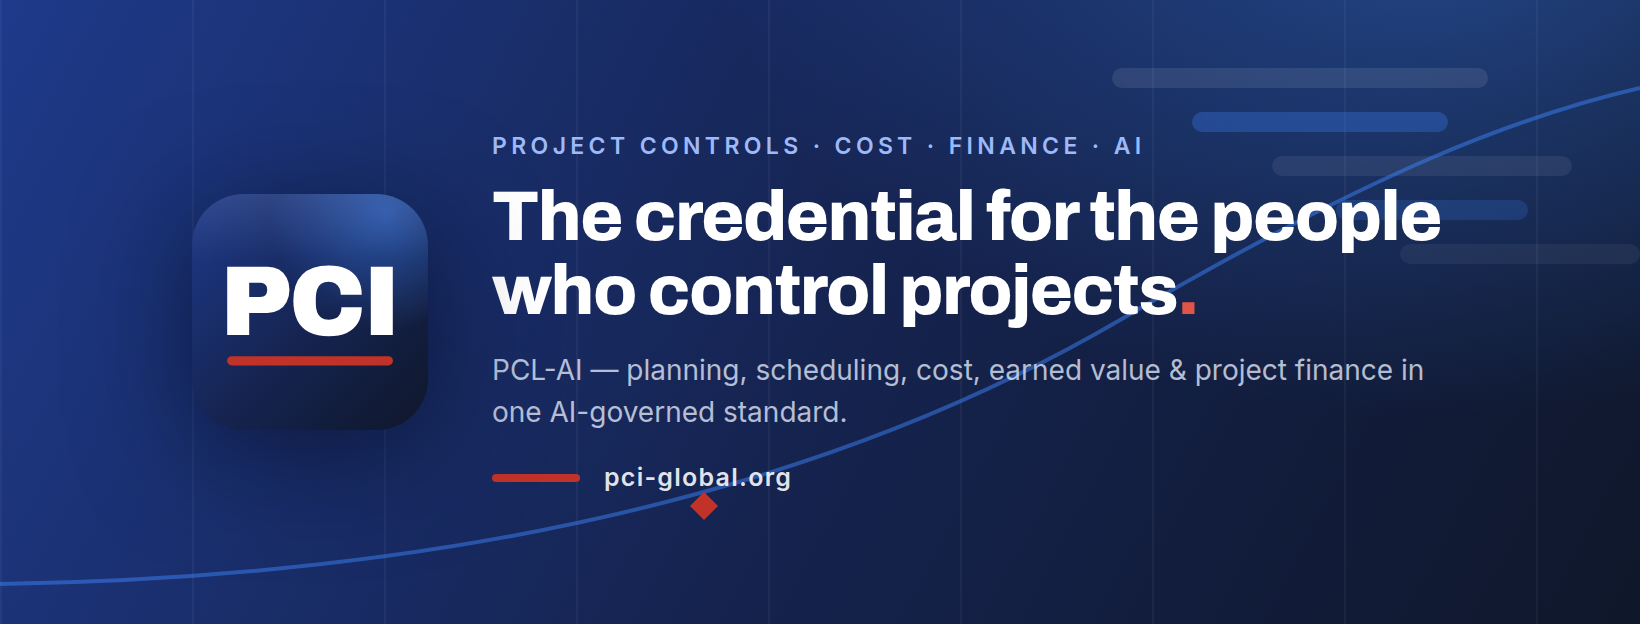
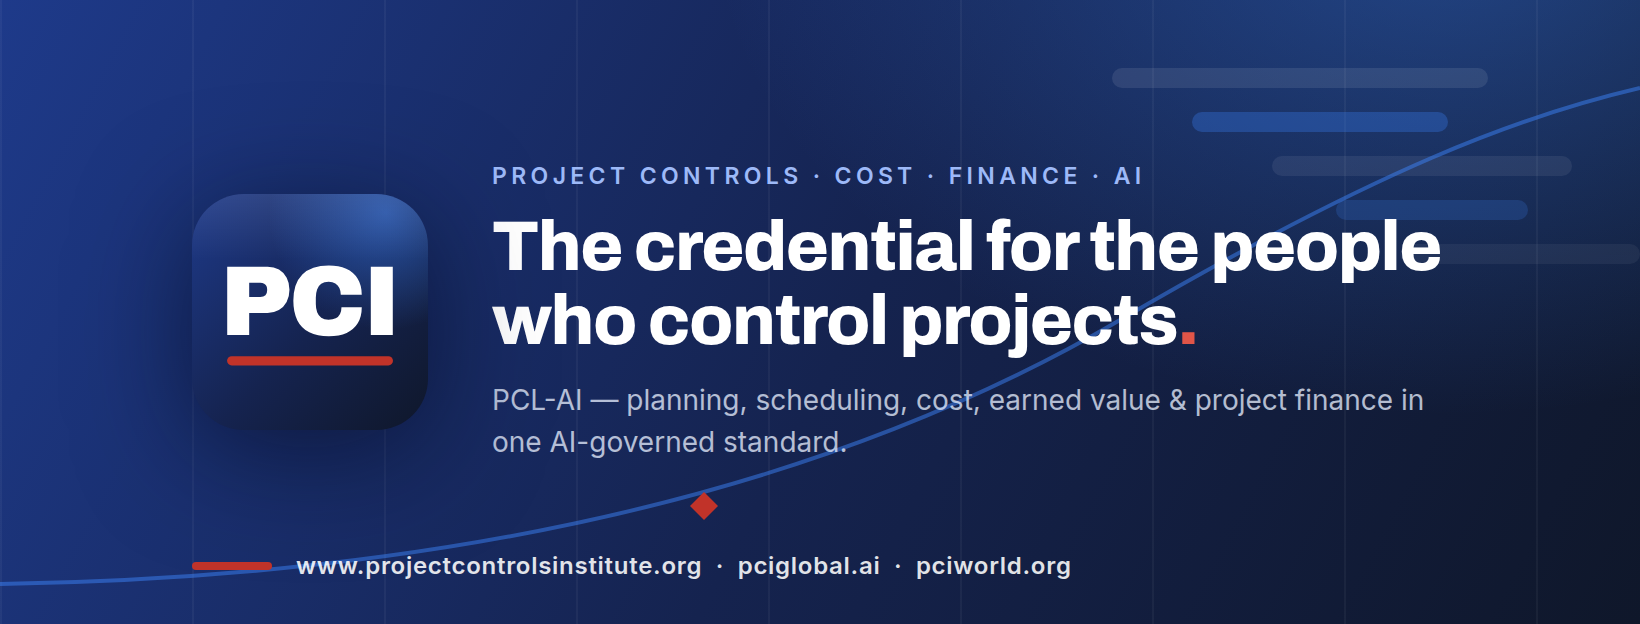
Correct the website addresses on the social covers
Replace pci-global.org with the real domains — www.projectcontrolsinstitute.org,
pciglobal.ai and pciworld.org — shown as a full-width strip along the bottom of
each cover, since three addresses no longer fit beside the text block.

Claude-Session: https://claude.ai/code/session_01PNvzMubVwcY3u6MR8yZyYb

Changed region(s): [[0.2799, 0.2131, 0.9018, 0.7917], [0.1244, 0.883, 0.653, 0.9439]]

diff --git a/branding/social-covers/linkedin-personal.html b/branding/social-covers/linkedin-personal.html
@@ -10,9 +10,9 @@
   .eyebrow{font-size:14px;margin-bottom:13px;}
   h1{font-size:46px;}
   .sub{font-size:17.5px;max-width:660px;margin-top:14px;}
-  .foot{gap:15px;margin-top:19px;}
-  .bar{width:56px;height:5px;}
-  .url{font-size:15.5px;}
+  .foot{position:absolute;left:470px;bottom:30px;z-index:2;gap:15px;}
+  .bar{width:52px;height:5px;}
+  .url{font-size:14.5px;letter-spacing:.03em;}
 </style>
 <div class="grid"></div>
 <svg class="motif" width="1584" height="396" viewBox="0 0 1584 396" fill="none">
@@ -27,7 +27,7 @@
   </g>
   <path d="M0 372 C 480 364, 830 300, 1080 204 S 1470 76, 1584 58"
         stroke="rgba(59,130,246,.5)" stroke-width="2.5"/>
-  <path d="M458 344 l9 9 -9 9 -9 -9 Z" fill="#C13329"/>
+  <path d="M298 359 l9 9 -9 9 -9 -9 Z" fill="#C13329"/>
 </svg>
 <div class="in">
   <img class="mark" src="../../backend/wwwroot/assets/logo.svg" alt="">
@@ -35,6 +35,6 @@
     <div class="eyebrow">Project Controls &middot; Cost &middot; Finance &middot; AI</div>
     <h1>The credential for the people<br>who control projects<span class="dot">.</span></h1>
     <div class="sub">PCL-AI — planning, scheduling, cost, earned value &amp; project finance<br>in one AI-governed standard.</div>
-    <div class="foot"><span class="bar"></span><span class="url">pci-global.org</span></div>
   </div>
 </div>
+<div class="foot"><span class="bar"></span><span class="url">www.projectcontrolsinstitute.org &nbsp;·&nbsp; pciglobal.ai &nbsp;·&nbsp; pciworld.org</span></div>

diff --git a/branding/social-covers/facebook.html b/branding/social-covers/facebook.html
@@ -10,9 +10,9 @@
   .eyebrow{font-size:11.5px;margin-bottom:10px;}
   h1{font-size:35px;}
   .sub{font-size:14px;max-width:520px;margin-top:11px;}
-  .foot{gap:12px;margin-top:15px;}
-  .bar{width:44px;height:4px;}
-  .url{font-size:12.5px;}
+  .foot{position:absolute;left:96px;bottom:22px;z-index:2;gap:12px;}
+  .bar{width:40px;height:4px;}
+  .url{font-size:12px;letter-spacing:.03em;}
 </style>
 <div class="grid"></div>
 <svg class="motif" width="820" height="312" viewBox="0 0 820 312" fill="none">
@@ -35,6 +35,6 @@
     <div class="eyebrow">Project Controls &middot; Cost &middot; Finance &middot; AI</div>
     <h1>The credential for the people<br>who control projects<span class="dot">.</span></h1>
     <div class="sub">PCL-AI — planning, scheduling, cost, earned value &amp; project finance in one AI-governed standard.</div>
-    <div class="foot"><span class="bar"></span><span class="url">pci-global.org</span></div>
   </div>
 </div>
+<div class="foot"><span class="bar"></span><span class="url">www.projectcontrolsinstitute.org &nbsp;·&nbsp; pciglobal.ai &nbsp;·&nbsp; pciworld.org</span></div>

diff --git a/branding/social-covers/linkedin-company.html b/branding/social-covers/linkedin-company.html
@@ -37,4 +37,4 @@
     <div class="sub">PCL-AI — one AI-governed standard for planning, cost, earned value &amp; project finance.</div>
   </div>
 </div>
-<div class="corner"><span class="bar"></span><span class="url">pci-global.org</span></div>
+<div class="corner"><span class="bar"></span><span class="url">www.projectcontrolsinstitute.org &nbsp;·&nbsp; pciglobal.ai &nbsp;·&nbsp; pciworld.org</span></div>
